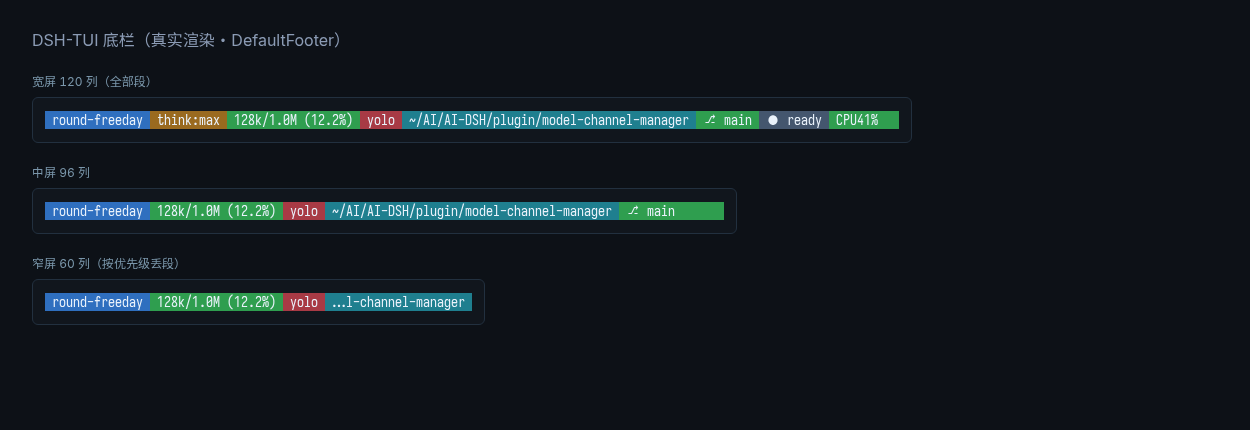
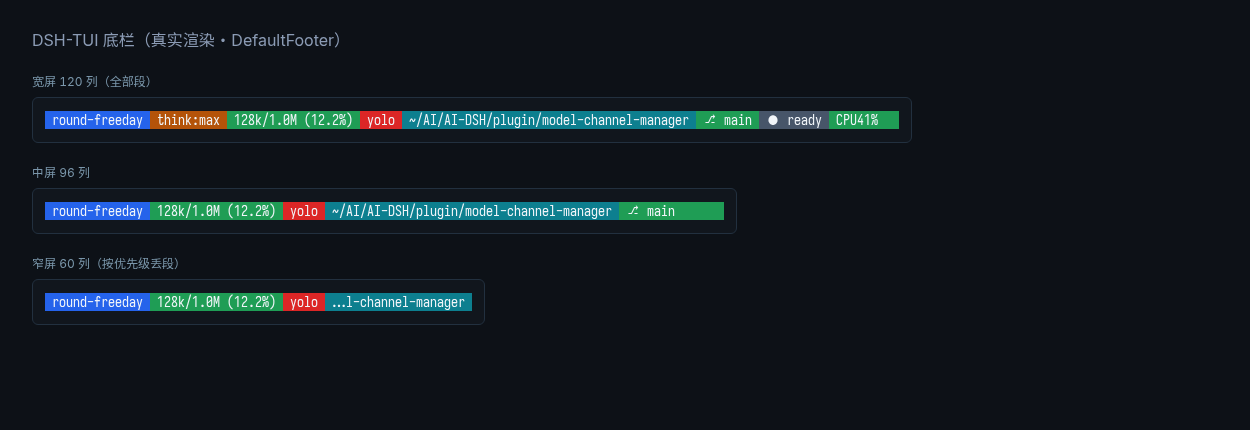
feat(permission): Shift+Tab permission presets + more vivid status blocks
- Shift+Tab 循环权限预设（read-only → workspace-write → danger-full-access），/permission 选择器与 /permission <name> 直切
- kernel.runtime.permission: available/catalog/current/resolve/set/cycle；服务缺失时隐藏入口
- 权限预设由 dsh-base 的 permission 行提供（沙箱模式 + 审批策略组合），TUI 之前只是没有入口；切换写会话事件，底栏权限段与工具调用自动跟随
- 段色板提饱和（#2563eb/#1f9d55/#dc2626/#0d7f8f/#b45309/#64748b + 浅字 #f1f5f9），pi 主题同步
- 333 测试通过（+2）；真机 tmux 验证三档环绕与选择器

diff --git a/src/kernel.js b/src/kernel.js
@@ -562,6 +562,56 @@ export function createRuntimeAccess(ctx, getAgent) {
    */
   const sessionsCache = new Map()
   const SESSIONS_TTL_MS = 20_000
+
+  /**
+   * 权限预设（沙箱模式 + 审批策略的组合，由 @deepseek-ai/dsh-permission-presets
+   * 提供）。服务缺失时 available() 为 false——调用方据此隐藏入口，而不是报错。
+   * set/cycle 写的是会话事件，所以底栏的权限段与后续工具调用会自动跟随。
+   */
+  const permissionService = () => ctx.get('permissionPresets')
+  function permissionAvailable() {
+    const service = permissionService()
+    return typeof service?.catalog === 'function' && typeof service?.set === 'function'
+  }
+  function permissionCatalog() {
+    try {
+      return permissionService()?.catalog?.()
+    } catch {
+      return undefined
+    }
+  }
+  function permissionCurrent() {
+    const service = permissionService()
+    if (typeof service?.current !== 'function') return undefined
+    try {
+      return service.current(agent().session)
+    } catch {
+      return undefined
+    }
+  }
+  function permissionResolve(name) {
+    try {
+      return permissionService()?.resolve?.(name)
+    } catch {
+      return undefined
+    }
+  }
+  function permissionSet(name) {
+    const service = permissionService()
+    if (typeof service?.set !== 'function') throw new Error('当前运行时没有权限预设服务')
+    service.set(agent().session, name)
+    return service.current(agent().session)
+  }
+  function permissionCycle() {
+    if (!permissionAvailable()) throw new Error('当前运行时没有权限预设服务')
+    const options = permissionCatalog()?.options ?? []
+    if (options.length === 0) throw new Error('没有可用的权限预设')
+    const names = options.map((option) => option.value)
+    // 当前值不匹配任何预设时（custom）从第一档开始。
+    const next = names[(names.indexOf(permissionCurrent()) + 1) % names.length]
+    return { name: permissionSet(next), option: permissionService()?.optionOf?.(next) }
+  }
+
   return {
     async sessions({ all = false, signal } = {}) {
       const current = agent()
@@ -610,6 +660,15 @@ export function createRuntimeAccess(ctx, getAgent) {
         queued: current.inbox?.nextTurn?.length ?? 0,
         steering: current.inbox?.nextStep?.length ?? 0,
         sessionId: String(current.session.id), cwd: current.session.header?.cwd }
+    },
+    /** 权限预设：Shift+Tab 与 /permission 都走这里。 */
+    permission: {
+      available: permissionAvailable,
+      catalog: permissionCatalog,
+      current: permissionCurrent,
+      resolve: permissionResolve,
+      set: permissionSet,
+      cycle: permissionCycle,
     },
     context() {
       const session = agent().session

diff --git a/src/index.js b/src/index.js
@@ -536,6 +536,59 @@ export async function apply(ctx) {
         app?.requestRender?.()
         return
       }
+      if (parsed.name === 'permission') {
+        // 权限预设 = 沙箱模式 + 审批策略的组合（read-only / workspace-write /
+        // danger-full-access）。切换写的是会话事件，底栏权限段与后续工具调用
+        // 自动跟随。Shift+Tab 走同一条路（/permission cycle）。
+        const runtime = kernel.runtime
+        if (runtime.permission?.available?.() !== true) {
+          app?.notice?.('当前 profile 未启用权限预设（需要 @deepseek-ai/dsh-permission-presets 行）')
+          return
+        }
+        const describe = (name) => {
+          const spec = runtime.permission.resolve?.(name)
+          return spec === undefined ? String(name) : `${name} · 沙箱 ${spec.sandbox} · 审批 ${spec.approval}`
+        }
+        const apply = (name) => {
+          try {
+            const applied = runtime.permission.set(name)
+            app?.notice?.(`权限已切换：${describe(applied)}`)
+            app?.requestRender?.()
+          } catch (error) {
+            app?.notice?.(`权限切换失败：${error?.message ?? error}`)
+          }
+        }
+
+        if (parsed.rest === 'cycle' || parsed.rest === 'next') {
+          try {
+            const result = runtime.permission.cycle()
+            app?.notice?.(`权限已切换：${describe(result?.name)}`)
+            app?.requestRender?.()
+          } catch (error) {
+            app?.notice?.(`权限切换失败：${error?.message ?? error}`)
+          }
+          return
+        }
+        if (parsed.rest !== '') {
+          apply(parsed.rest)
+          return
+        }
+
+        const catalog = runtime.permission.catalog()
+        const currentName = runtime.permission.current()
+        const options = (catalog?.options ?? []).map((option) => ({
+          value: option.value,
+          label: `${option.name ?? option.value}${option.value === currentName ? '  ✓' : ''}`,
+          description: option.description ?? describe(option.value),
+        }))
+        if (options.length === 0) {
+          app?.notice?.('没有可用的权限预设')
+          return
+        }
+        const chosen = await app.choose({ title: '权限预设', detail: '沙箱模式 + 审批策略 · Shift+Tab 循环切换', options })
+        if (chosen !== undefined) apply(chosen)
+        return
+      }
       return
     }
 

diff --git a/src/theme.js b/src/theme.js
@@ -139,14 +139,14 @@ export const BLUE_TOKENS = Object.freeze({
   codeNumber: '#ff9e64',
 
   // 底栏色块（Claude Code 状态行样式：饱和底色 + 浅色文字，段间无分隔）
-  segText: '#eaf2fb',
-  segBlue: '#2f6fbf',
-  segTeal: '#1f7f8f',
-  segGreen: '#2f9e4f',
-  segAmber: '#9a6a1f',
-  segRed: '#a83a45',
-  segSlate: '#44566e',
-  segGray: '#5a6672',
+  segText: '#f1f5f9',
+  segBlue: '#2563eb',
+  segTeal: '#0d7f8f',
+  segGreen: '#1f9d55',
+  segAmber: '#b45309',
+  segRed: '#dc2626',
+  segSlate: '#475569',
+  segGray: '#64748b',
 })
 
 /**
@@ -218,13 +218,13 @@ export const PI_TOKENS = Object.freeze({
 
   // 底栏色块（同上：饱和底色 + 浅色文字）
   segText: '#fff8d6',
-  segBlue: '#2f6f9f',
-  segTeal: '#2a7a7a',
-  segGreen: '#2f8f6f',
-  segAmber: '#9a7a2f',
-  segRed: '#a04a4a',
-  segSlate: '#44566e',
-  segGray: '#5a6a7a',
+  segBlue: '#1f6f9f',
+  segTeal: '#0d7f8f',
+  segGreen: '#1f8f6f',
+  segAmber: '#b47a1f',
+  segRed: '#c2453a',
+  segSlate: '#475569',
+  segGray: '#64748b',
 })
 
 /**

diff --git a/src/app.js b/src/app.js
@@ -509,7 +509,8 @@ export function createApp(options) {
       return undefined
     }
     if (!hasModalOverlay()) {
-      const shortcuts = [[Key.ctrl('k'), '/workbench'], [Key.ctrl('o'), '/inspect'], [Key.ctrl('t'), '/thinking']]
+      // Shift+Tab 循环权限预设（Claude Code 同款手感）；Ctrl+K/O/T 是工作台快捷键。
+      const shortcuts = [[Key.ctrl('k'), '/workbench'], [Key.ctrl('o'), '/inspect'], [Key.ctrl('t'), '/thinking'], ['shift+tab', '/permission cycle']]
       for (const [key, command] of shortcuts) {
         if (matchesKey(data, key)) {
           if (!isKeyRepeat(data)) onCommand?.(command)

diff --git a/src/commands.js b/src/commands.js
@@ -32,6 +32,7 @@ export const LOCAL_COMMANDS = Object.freeze([
   { name: 'thinking', description: '展开或折叠思考全文 · Ctrl+T' },
   { name: 'pane', description: '文件编辑右栏：/pane auto|on|off' },
   { name: 'theme', description: '选择主题配色（/theme）' },
+  { name: 'permission', description: '权限预设（沙箱 + 审批）：/permission 选择 · Shift+Tab 循环' },
   { name: 'exit', description: '退出' },
   { name: 'quit', description: '退出（同 /exit）' },
 ])

diff --git a/progress.md b/progress.md
@@ -1,5 +1,13 @@
 # 进度记录
 
+## 第八轮
+
+- 用户反馈两件事：①状态行色块再明显一些；②「似乎没有权限管理」，想要 Claude Code 那样 Shift+Tab 控权限。
+- 权限管理先求证：`sandboxPolicy` 只有读方法（`resolve`/`overrideOf`），模式来自会话日志的 `sandbox/mode` 事件；真正管切换的是 `@deepseek-ai/dsh-permission-presets` 的 `ctx.permissionPresets`（`catalog()` / `current(session)` / `set(session,name)` / `resolve(name)`），预设 = 沙箱模式 + 审批策略的组合。**dsh-base 本来就挂了这一行**（三档预设与官方 web 一致）——服务一直在，缺的只是 TUI 入口。我一开始在 bundle 里又加了一行，发现是重复 id 后撤掉。
+- 实现：Shift+Tab 循环权限预设（`\x1b[Z`、kitty CSI-u、modifyOtherKeys 三种序列 pi-tui 都认）、`/permission` 选择器、`/permission <name>` 直切；`kernel.runtime.permission` 提供 available/catalog/current/resolve/set/cycle，服务缺失时入口隐藏而不是报错。切换写的是会话事件，底栏权限段与后续工具调用自动跟随。
+- 色块更明显：段色板提饱和（蓝 `#2563eb`、绿 `#1f9d55`、红 `#dc2626`、青 `#0d7f8f`、琥珀 `#b45309`、灰 `#64748b`、浅字 `#f1f5f9`），pi 主题同步。
+- 验证（真机 tmux）：Shift+Tab 依次 `workspace-write → danger-full-access → read-only → workspace-write` 环绕，底栏权限段与通知同步；`/permission` 选择器三档带 ✓；140 列底栏含 CPU/MEM/时间。333 项测试通过（+2：权限访问器与环绕、Shift+Tab 绑定）；check / audit 通过。
+
 ## 第七轮
 
 - 用户给出 Claude Code 状态行截图，要求「输入栏下面的 UI 仿照它」。**先把图真正读进来**（用图片工具读附件，而不是凭印象），确认设计要素：一行**连续色块**、每段饱和底色 + 浅色文字、段间无缝、每段左右各一空格内边距、**末段铺满整行**；段内容为 路径 · 分支 · CPU · MEM · 时间。

diff --git a/README.md b/README.md
@@ -49,6 +49,7 @@ npm run demo
 | `/model provider/model` | 校验后写入会话事件，下一步生效 |
 | `/preset` | standard / ptc / minimal / cordis；仅内核认可的空白会话可切换。`/preset create` 进入创造模式（切到 cordis 预设，由 Agent 起草并安装声明预设的 bundle） |
 | `/pane` | 文件编辑右栏：`/pane`（auto→on→off 轮换）或 `/pane auto\|on\|off`。Edit/Write 运行时右侧出现 diff，回合结束保留最后状态；窄终端（<96 列）自动收起 |
+| `Shift+Tab`、`/permission` | 权限预设循环 / 选择：`read-only` → `workspace-write` → `danger-full-access`，每档同时定沙箱模式与审批策略（切换写进会话日志，底栏权限段与后续工具调用立即跟随）；`/permission <name>` 直接切 |
 | `/theme` | 选择主题配色：`/theme` 弹选择器，`/theme blue\|pi` 直接切。热切即时生效并记住（默认 blue：深蓝底 + 蓝 accent；pi：墨蓝底 + 暖黄） |
 | `/help` | TUI 与原生命令，包括已启用的压缩、计划、目标等功能 |
 | `/doctor` | 真实服务接入诊断 |
